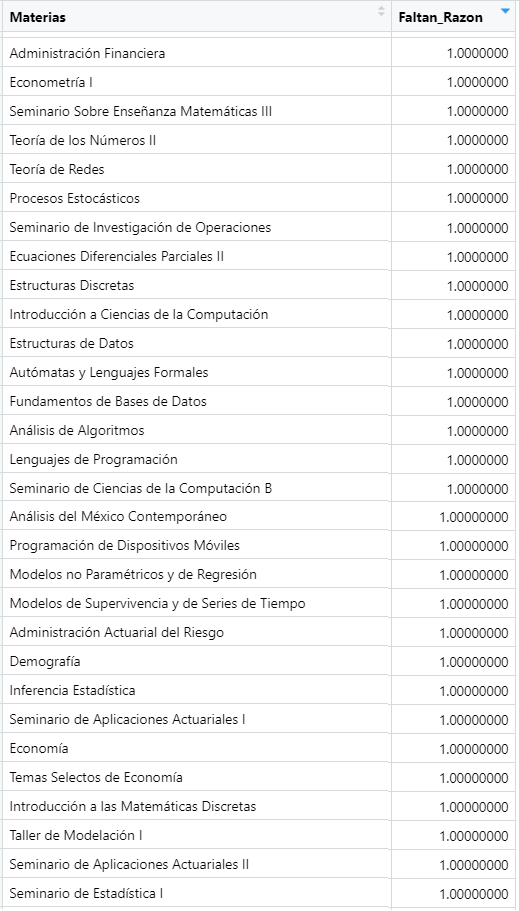
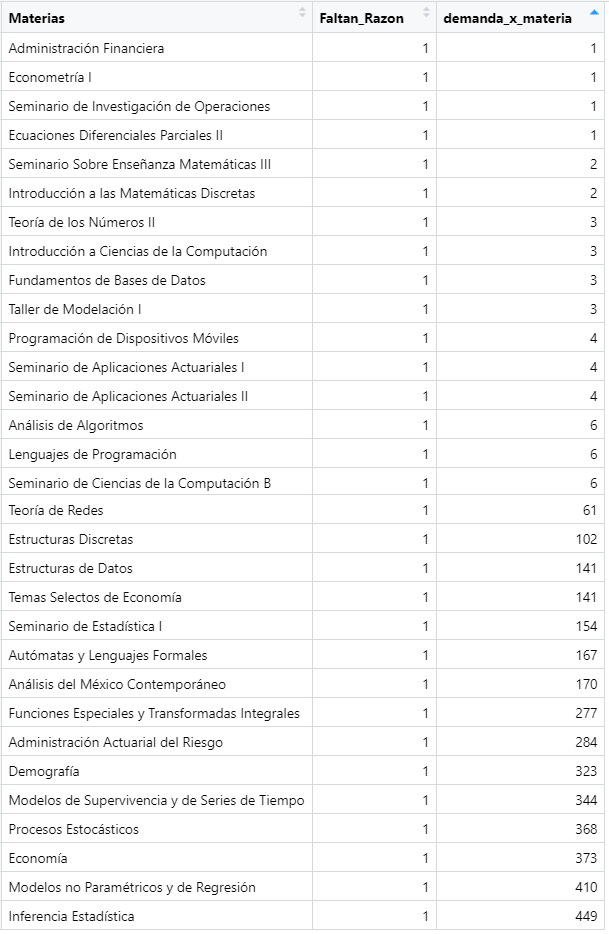
Update README 06

diff --git a/06 Grading skeletons/README.md b/06 Grading skeletons/README.md
@@ -46,7 +46,7 @@ In the next figure we can see the graphic of the number of students simulated un
 
 ![Fig_under_students_over_simulated](https://github.com/ArrigoCoen/Faculty_schedule_simulation/blob/master/Figures/Fig_under_students_over_simulated.PNG)
 
-The range of the data is from 0 to 1 (without infinity). That means that in the worst scenario, when we reach 1, we didn't simulate any group for the students needed. In the next figure we can see the subjects that doesn't have any students simulated.
+The range of the data is from 0 to 1 (without infinity). That means that in the worst scenario, when we reach 1, we didn't simulate any group for the students needed. In the next figure we can see the subjects that doesn't have any students simulated. In the third column of the matrix we can see the number of students needed for the next semester, they are oredered from the lowest to the highest number.
 
 ![Fig_subjects_with_no_students_simulated](https://github.com/ArrigoCoen/Faculty_schedule_simulation/blob/master/Figures/Fig_subjects_with_no_students_simulated.png)
 
